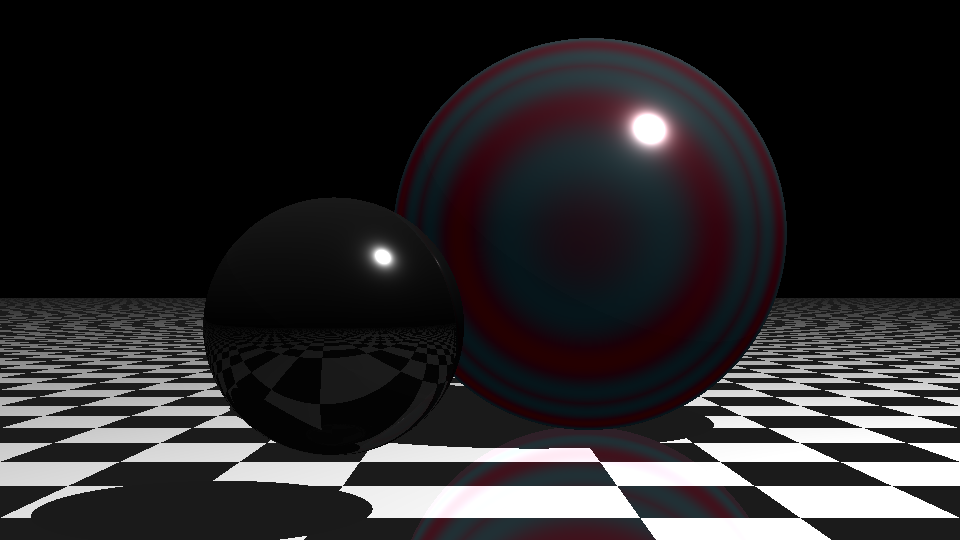
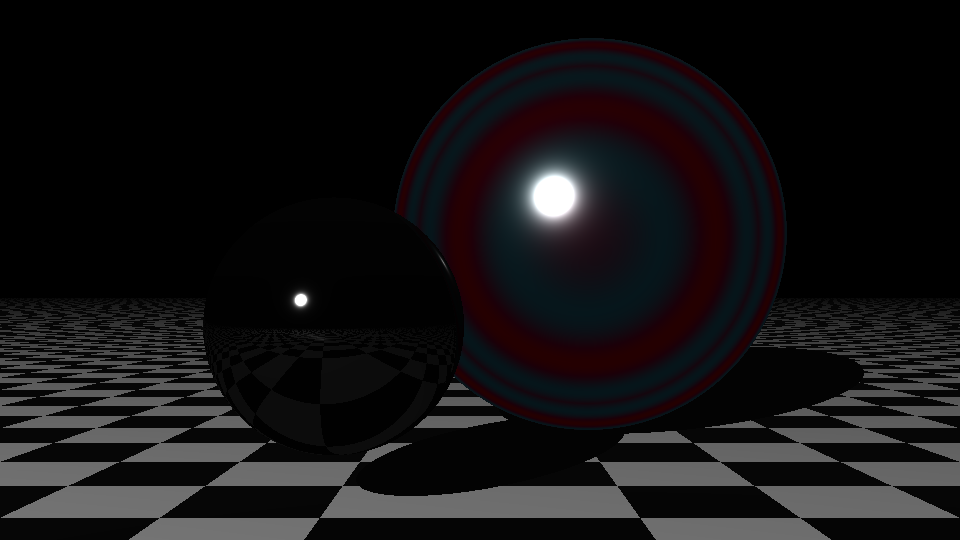
feat: create physical specular

diff --git a/ray_tracer/infrastructure/numpy/shader.py b/ray_tracer/infrastructure/numpy/shader.py
@@ -48,7 +48,7 @@ class NumpyShader(Shader):
         self.iridescence_gain = iridescence_gain
         self.diffuse_gain = diffuse_gain
         self.diffuse_color = diffuse_color
-        self.specular_ior = 1.5  # default value for glass
+        self.specular_ior = 5  # default value for glass
         self.thin_film_weight = 0.1  # range [0, 1]
         self.thin_film_thickness = 0.3  # range [0, 1]
         self.thin_film_ior = 1.4  # range [1, 3]
@@ -238,46 +238,49 @@ class NumpyShader(Shader):
         direction_to_light: NumpyVector3D,
         direction_to_ray_origin: NumpyVector3D,
     ) -> NumpyRGBColor:
-        """Calculates the specular term using a GGX microfacet model and Fresnel reflection
-        based on the material's IOR.
+        """Calculates the specular term using a GGX microfacet model and Fresnel reflection.
+
+        This version, adapted for materials like chrome, computes the specular contribution
+        for all parts of the surface visible to the camera, even in the absence of direct lighting via NdotL.
+        NdotL is removed from the denominator to ensure the reflection is always calculated.
 
         Args:
-            normal (NumpyVector3D): The surface normal.
-            direction_to_light (NumpyVector3D): The direction to the light source (normalized).
-            direction_to_ray_origin (NumpyVector3D): The direction to the camera or ray origin (normalized).
+            normal (NumpyVector3D): the surface normal.
+            direction_to_light (NumpyVector3D): the (normalized) direction to the light source.
+            direction_to_ray_origin (NumpyVector3D): the (normalized) direction to the camera.
 
         Expected attributes on self:
-            - self.specular_roughness: a roughness value in [0, 1] (0 = perfectly smooth surface).
+            - self.specular_roughness: value in [0, 1] (0 = perfectly smooth surface).
             - self.specular_gain: gain applied to the specular term.
-            - self.specular_ior: index of refraction of the material (for Fresnel).
+            - self.specular_ior: refractive index of the material (used for Fresnel if non-metallic).
+            - self.is_metallic (optional): boolean indicating if the material is metallic.
+            - self.specular_color (optional): if metallic, base color of the specular (e.g., [0.95, 0.95, 0.95] for chrome).
 
         Returns:
-            NumpyRGBColor: The resulting specular color.
+            NumpyRGBColor: the resulting specular color.
         """
         # Normalize incoming vectors
-        L = direction_to_light.norm()  # light direction
-        V = direction_to_ray_origin.norm()  # view direction
+        L = direction_to_light.norm()  # direction to the light
+        V = direction_to_ray_origin.norm()  # direction to the camera
         H = (L + V).norm()  # half-angle vector
 
-        # Compute dot products – these can be scalars or arrays
-        NdotL = np.clip(normal.dot(L), 0, 1)
+        # Compute dot products
+        # Keep the camera clip to avoid computation when the surface is not oriented toward the view
         NdotV = np.clip(normal.dot(V), 0, 1)
         NdotH = np.clip(normal.dot(H), 0, 1)
         VdotH = np.clip(V.dot(H), 0, 1)
 
         # ----- Fresnel -----
-        # Compute Fresnel at rest F0 from IOR (formula for a dielectric)
+        # For a non-metallic material, F0 is derived from the refractive index
         F0 = ((self.specular_ior - 1) / (self.specular_ior + 1)) ** 2
-        # Schlick's approximation for the Fresnel term (uses VdotH as the incidence factor)
+        # Schlick's approximation for Fresnel
         F = F0 + (1 - F0) * (1 - VdotH) ** 5
 
         # ----- GGX Microfacet Distribution -----
-        # Define alpha (the roughness parameter); often alpha = roughness² for more intuitive behavior.
+        # Define alpha as the square of roughness for more intuitive behavior
         alpha = self.specular_roughness**2
-        # GGX formula for the distribution D:
-        # D = alpha² / (π * ((N·H)² (alpha² - 1) + 1)²)
         denom = NdotH**2 * (alpha**2 - 1) + 1
-        D = (alpha**2) / (np.pi * (denom**2 + 1e-8))  # add a small epsilon to avoid division by zero
+        D = (alpha**2) / (np.pi * (denom**2 + 1e-8))
 
         # ----- Geometric Term G (Smith Schlick-GGX) -----
         def G1(x: NumpyVector3D) -> float:
@@ -286,11 +289,11 @@ class NumpyShader(Shader):
 
         G = G1(L) * G1(V)
 
-        # ----- Final Specular Term -----
-        # First calculate the specular term, then apply masking
-        spec = (F * D * G) / (4 * NdotL * NdotV + 1e-8)
-        # For elements where NdotL or NdotV are zero (or negative), force the result to zero.
-        spec = np.where((NdotL <= 0) | (NdotV <= 0), 0, spec)
+        # ----- Final Specular Calculation -----
+        # Note: NdotL is removed from the denominator so the calculation is done for the entire surface
+        spec = (F * D * G) / (4 * NdotV + 1e-8)
 
-        # Return the result multiplied by white color and the specular gain.
+        # Mask the result only if the surface is not oriented toward the camera (NdotV <= 0)
+        spec = np.where(NdotV <= 0, 0, spec)
+
         return NumpyRGBColor(1, 1, 1) * spec * self.specular_gain

diff --git a/main.py b/main.py
@@ -17,10 +17,10 @@ if __name__ == "__main__":
                 1.0,
                 NumpyShader(
                     reflection_gain=0,
-                    specular_gain=5.0,
+                    specular_gain=1.0,
                     specular_roughness=0.3,
                     iridescence_gain=1.0,
-                    diffuse_gain=0.1,
+                    diffuse_gain=0.0,
                     diffuse_color=Texture(NumpyRGBColor(1, 1, 1)),
                 ),
             ),
@@ -29,8 +29,8 @@ if __name__ == "__main__":
                 0.4,
                 NumpyShader(
                     reflection_gain=0.1,
-                    specular_gain=3.0,
-                    specular_roughness=0.3,
+                    specular_gain=1.0,
+                    specular_roughness=0.1,
                     iridescence_gain=0.0,
                     diffuse_gain=0.0,
                     diffuse_color=Texture(NumpyRGBColor(1, 0, 0)),
@@ -39,12 +39,12 @@ if __name__ == "__main__":
             NumpySphere(
                 NumpyVector3D(0, -99999.5, 0),
                 99999,
-                NumpyShader(1.0, 1.0, 0.5, 0.0, 1.0, TextureChecker()),
+                NumpyShader(0, 1.0, 0.5, 0.0, 1.0, TextureChecker()),
             ),
         ],
         [
-            PointLight(NumpyVector3D(3, 5, 0)),
-            DomeLight(0.1, NumpyRGBColor(1, 1, 1)),
+            PointLight(NumpyVector3D(-5, 5, -10)),
+            DomeLight(0.01, NumpyRGBColor(1, 1, 1)),
         ],
         Camera(NumpyVector3D(0, 0.2, -2), int(1920 / 2), int(1080 / 2)),
     )
